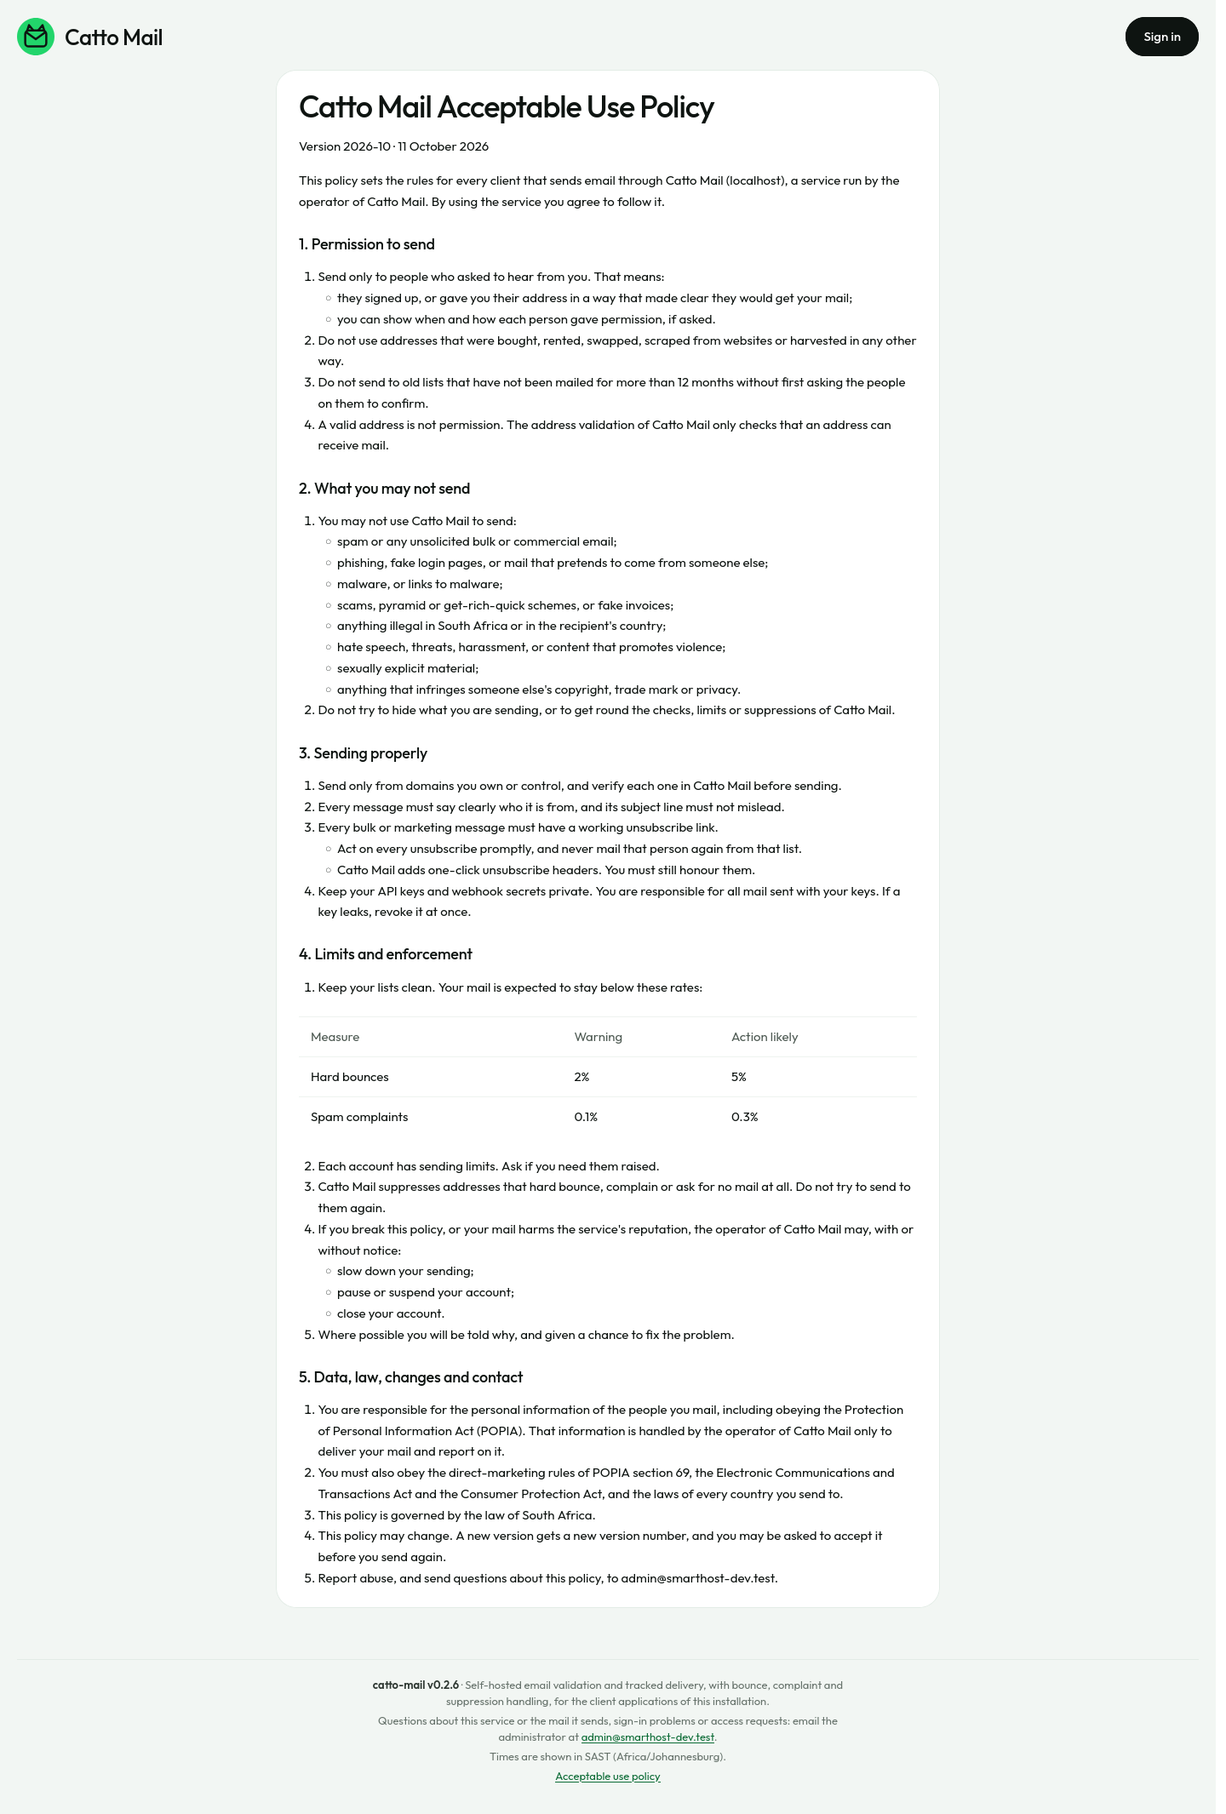
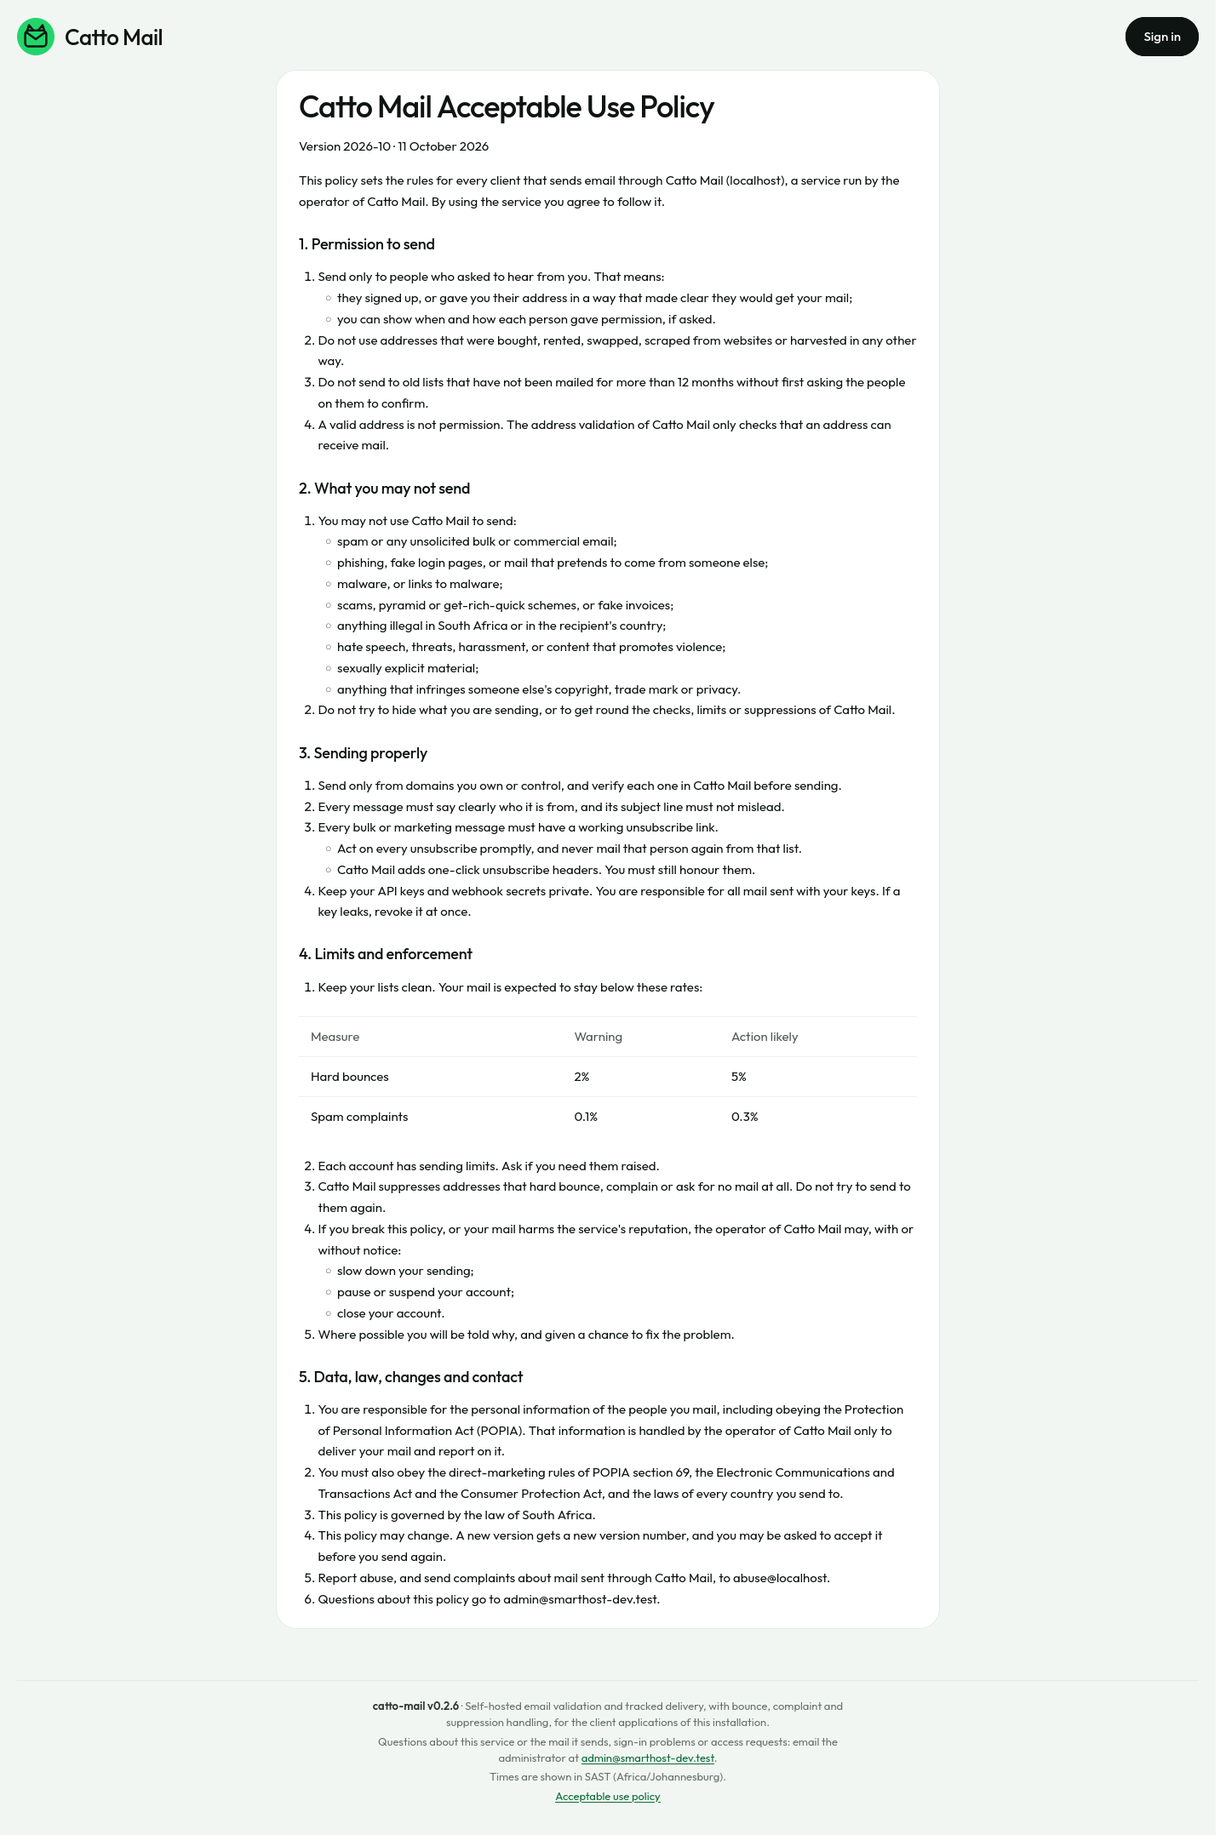
Acceptable use policy: abuse reports go to abuse@ the installation's domain (unreleased)
The policy sent abuse reports and complaints to the administrator's address.
They go to abuse@<domain> (written abuse@{{domain}} in docs/AUP.md, the host
of the public address), as the original policy had it; the administrator's
address is named only for questions about the policy. The operator provides
that mailbox (onboarding guide, VPS-INSTALL).

check-contracts.py and PolicyPageTest now fail if abuse reports are directed
at the contact address. Specification, environment contract, help page and
guides corrected; the policy page's screenshot retaken.

check-contracts 2,942; test phase2 376 tests.

diff --git a/app/tests/Integration/PolicyPageTest.php b/app/tests/Integration/PolicyPageTest.php
@@ -60,9 +60,10 @@ final class PolicyPageTest extends DashboardTestCase
             self::assertStringContainsString($placeholder, $source);
         }
         self::assertSame(1, preg_match('/^Version ([A-Za-z0-9][A-Za-z0-9._-]*)/m', $source), 'the document states its version');
+        self::assertStringContainsString('to abuse@{{domain}}.', $source, 'abuse reports go to the abuse mailbox of the installation\'s domain');
 
         $this->withEnv(['APP_SITE_NAME' => 'Example Post', 'APP_ORGANISATION_NAME' => 'Example & Sons (Pty) Ltd',
-            'SMARTHOST_PUBLIC_BASE_URL' => 'https://post.example.org', 'APP_ADMIN_EMAIL' => 'abuse_desk@example.org'], function (): void {
+            'SMARTHOST_PUBLIC_BASE_URL' => 'https://post.example.org', 'APP_ADMIN_EMAIL' => 'front_desk@example.org'], function (): void {
                 $response = $this->page('/acceptable-use-policy');
                 self::assertSame(200, $response->getStatusCode());
                 $page = new Crawler((string) $response->getContent());
@@ -70,7 +71,10 @@ final class PolicyPageTest extends DashboardTestCase
                 self::assertSame('Example Post Acceptable Use Policy', $page->filter('article.policy h1')->text());
                 self::assertStringContainsString('through Example Post (post.example.org), a service run by Example & Sons (Pty) Ltd.', $policy);
                 self::assertStringContainsString('You may not use Example Post to send:', $policy);
-                self::assertStringContainsString('to abuse_desk@example.org.', $policy);
+                // Abuse reports and complaints go to the installation's abuse mailbox, not to the administrator.
+                self::assertStringContainsString('Report abuse, and send complaints about mail sent through Example Post, to abuse@post.example.org.', $policy);
+                self::assertStringContainsString('Questions about this policy go to front_desk@example.org.', $policy);
+                self::assertSame(1, substr_count($policy, 'front_desk@example.org'), 'the administrator is named for questions only');
                 self::assertStringContainsString('Example &amp; Sons (Pty) Ltd', (string) $response->getContent(), 'a configured value is escaped');
                 self::assertStringNotContainsString('{{', $policy);
                 self::assertStringNotContainsStringIgnoringCase('catto', $policy);
@@ -83,7 +87,8 @@ final class PolicyPageTest extends DashboardTestCase
         $this->withEnv(['APP_SITE_NAME' => 'Example Post', 'APP_ORGANISATION_NAME' => '', 'APP_ADMIN_EMAIL' => ''], function (): void {
             $policy = (new Crawler((string) $this->page('/acceptable-use-policy')->getContent()))->filter('article.policy')->text();
             self::assertStringContainsString('a service run by the operator of Example Post.', $policy);
-            self::assertStringContainsString('to the administrator of this installation.', $policy);
+            self::assertStringContainsString('Questions about this policy go to the administrator of this installation.', $policy);
+            self::assertStringContainsString(', to abuse@'.self::getContainer()->get(Installation::class)->domain().'.', $policy, 'abuse reports still have their address');
         });
     }
 

diff --git a/scripts/check-contracts.py b/scripts/check-contracts.py
@@ -534,6 +534,10 @@ def check_policy_document(example: dict[str, str]) -> None:
     known = {"{{site_name}}", "{{domain}}", "{{organisation}}", "{{contact}}"}
     check(used <= known, f"docs/AUP.md: unknown placeholders {sorted(used - known)}")
     check(known <= used, f"docs/AUP.md: must name the installation's {sorted(known - used)}")
+    # Abuse reports and complaints go to the installation's abuse mailbox, never to the administrator's address (owner, 2026-10-12).
+    abuse = [line for line in text.splitlines() if re.search(r"\babuse\b", line, re.I) and re.search(r"\breport|\bcomplain", line, re.I)]
+    check(bool(abuse) and all("abuse@{{domain}}" in line and "{{contact}}" not in line for line in abuse),
+          "docs/AUP.md: abuse reports and complaints must be directed to abuse@{{domain}}, not to {{contact}}")
     stated = re.search(r"^Version ([A-Za-z0-9][A-Za-z0-9._-]{0,63})(?=[\s.]|$)", text, re.M)
     check(stated is not None, "docs/AUP.md: must state its version on a line starting 'Version <identifier>'")
     if stated:

diff --git a/app/src/Config/Installation.php b/app/src/Config/Installation.php
@@ -16,6 +16,9 @@ use Symfony\Component\DependencyInjection\Attribute\Autowire;
  *   APP_ORGANISATION_NAME      who operates it (empty: "the operator of <site name>");
  *   SMARTHOST_PUBLIC_BASE_URL  its domain (the host of the public address);
  *   APP_ADMIN_EMAIL            its contact address (may be empty).
+ *
+ * Abuse reports and complaints are not sent to the contact address: the policy document directs
+ * them to abuse@<domain>, which it writes with the domain placeholder (abuse@{{domain}}).
  */
 final class Installation
 {

diff --git a/docs/architecture/open-decisions.md b/docs/architecture/open-decisions.md
@@ -389,7 +389,8 @@ webhook secret by hand. Choices made while implementing it:
 |---|---|
 | The API key and the webhook endpoint of a connection stay created by the exchange (owner, 2026-10-12: "keep it as built"). | `ConnectService::exchange` |
 | The acceptable use policy names the installation it runs on, never the product: `docs/AUP.md` holds four placeholders, filled after rendering with escaped values. The rules of the policy are unchanged; the author's byline was removed, because the document is shown as the policy of whoever runs the installation. The shipped text still refers to South African law: an installation elsewhere replaces the file. | `docs/AUP.md`, `PolicyController`, `App\Config\Installation` |
-| The owner asked for the installation's "configured site name, domain, organisation and contact address". There was no site name or organisation setting, so `APP_SITE_NAME` (default `Catto Mail`) and `APP_ORGANISATION_NAME` (default empty) were added to the group *Installation* of `infra/.env`; the domain is the host of `SMARTHOST_PUBLIC_BASE_URL` and the contact is `APP_ADMIN_EMAIL`, which the footer already shows as the contact. No separate abuse address was added. | `docs/contracts/environment.md` |
+| The owner asked for the installation's "configured site name, domain, organisation and contact address". There was no site name or organisation setting, so `APP_SITE_NAME` (default `Catto Mail`) and `APP_ORGANISATION_NAME` (default empty) were added to the group *Installation* of `infra/.env`; the domain is the host of `SMARTHOST_PUBLIC_BASE_URL` and the contact is `APP_ADMIN_EMAIL`, which the footer already shows as the contact. | `docs/contracts/environment.md` |
+| Abuse reports and complaints go to `abuse@` the installation's domain, not to the administrator's address (owner's correction, 2026-10-12; the original policy named `abuse@` its domain). The policy writes the address as `abuse@{{domain}}`, so no setting was added: the operator makes that mailbox exist. The administrator's address is named only for questions about the policy. | `docs/AUP.md`, `scripts/check-contracts.py`, `PolicyPageTest` |
 | A site name used only in the policy would contradict the page around it, so the top bar, the titles and the sign-in and sign-up emails use it too. The footer's software line and the `application-name` meta tag keep naming the software and its version (owner decision 2026-10-10), as do operator documentation and the help pages. | `templates/_site.html.twig`, `DashboardTwigExtension::siteName` |
 | `APP_ACCEPTABLE_USE_POLICY_VERSION` is `2026-10` in the development example and in the production profile, and `check-contracts.py` ties it to the version `docs/AUP.md` states. An existing `.env` keeps its own value through `env-migrate`. | `scripts/check-contracts.py` |
 | The development pod joins a client application's network instead of the client joining `smarthost-internal`: the internal network `cattomail-dev`, named by ctnlist's tooling, when it exists at `recreate`. Joining exposes every port the pod listens on to that network's containers, which is accepted for a development stack the developer runs. No environment variable was added for it. | `infra/podman/smarthost-pod.sh.in`, `docs/development-environment.md` §3 |

diff --git a/docs/contracts/environment.md b/docs/contracts/environment.md
@@ -196,7 +196,7 @@ Read only by the production topology script and `smarthostctl prod`; the develop
 | `APP_RETENTION_WEBHOOK_DELIVERIES_DAYS` | app | no | 7 | | Webhook delivery history (`webhook_deliveries` and their delivered outbox events). Empty means no automatic deletion: rows stay durable until a production retention policy sets a period. Policy only; nothing deletes them yet. |
 | `APP_SITE_NAME` | app | no | 10 | `Catto Mail` | The name of this installation (owner decision 2026-10-12): shown in the top bar and the title of every page, in the sign-in and sign-up emails (also as the sender's display name) and in the acceptable use policy. One line, at most 60 characters. |
 | `APP_ORGANISATION_NAME` | app | no | 10 | | The organisation or person that operates this installation, named in the acceptable use policy as the party a client agrees with. Empty: the policy names `APP_SITE_NAME` instead. One line, at most 120 characters. |
-| `APP_ADMIN_EMAIL` | app | no | 6 | `admin@smarthost-dev.test` | The administrator's email address. It can always request a dashboard sign-in link (its account is created on first sign-in) and receives the ADMIN role, which holds every permission, at every sign-in. It is also the contact address in the footer of every page and in the acceptable use policy. Empty disables this (the footer then names no address, and the policy names the administrator of the installation). |
+| `APP_ADMIN_EMAIL` | app | no | 6 | `admin@smarthost-dev.test` | The administrator's email address. It can always request a dashboard sign-in link (its account is created on first sign-in) and receives the ADMIN role, which holds every permission, at every sign-in. It is also the contact address in the footer of every page and, for questions about the policy, in the acceptable use policy; abuse reports and complaints go to `abuse@` the installation's domain instead, never to this address. Empty disables this (the footer then names no address, and the policy names the administrator of the installation). |
 | `APP_MAIL_FROM` | app, postfix | no | 6 | `no-reply@smarthost-dev.test` | Sender address of the dashboard sign-in emails (display name: `APP_SITE_NAME`). Its domain should be DKIM-signed by OpenDKIM. Postfix lets only the web application's submission account use it as envelope sender, and in production held mode it is the only sender Postfix delivers. |
 | `APP_LOGIN_LINK_TTL_SECONDS` | app | no | 6 | `900` | Lifetime of an emailed sign-in link. Each link works once. |
 | `APP_REPERMISSION_RESPONSE_DAYS` | app | no | 10 | `60` | How long the answer links of a re-permission message (`/p/<token>`: confirm, unsubscribe from this list, global opt-out) stay valid (specification 2.11). |

diff --git a/docs/PROJECT.md b/docs/PROJECT.md
@@ -238,7 +238,7 @@ Both are gitignored.
 | `production/components.md` | The canonical component names and, for each, container, process, purpose, inputs, outputs, network, data and dependencies; host units; networks, volumes, secrets; BIND is not required. |
 | `production/architecture.md` | The architecture diagram and the twelve steps from upload to webhook. |
 | `integration/ctnlist.md` | Responsibilities between ctnlist and catto-mail, the API calls and webhooks ctnlist already uses, connecting ctnlist with one approval, `repermission.responded`, and the outstanding ctnlist work (connect, contract draft.8 to draft.10, re-permission). |
-| `AUP.md` | The acceptable use policy (Markdown). Copied into the application image and published at `/acceptable-use-policy`, linked from every page's footer; an installation with its own policy replaces it before building. It names no product or domain: the placeholders `{{site_name}}`, `{{domain}}`, `{{organisation}}` and `{{contact}}` are filled from the installation's configuration, and the version it states is the `APP_ACCEPTABLE_USE_POLICY_VERSION` of the environment contract (`check-contracts.py`). |
+| `AUP.md` | The acceptable use policy (Markdown). Copied into the application image and published at `/acceptable-use-policy`, linked from every page's footer; an installation with its own policy replaces it before building. It names no product or domain: the placeholders `{{site_name}}`, `{{domain}}`, `{{organisation}}` and `{{contact}}` are filled from the installation's configuration, abuse reports and complaints go to `abuse@{{domain}}` (never to `{{contact}}`), and the version it states is the `APP_ACCEPTABLE_USE_POLICY_VERSION` of the environment contract (`check-contracts.py` checks both). |
 | `production/onboarding.md` | Client onboarding and SaaS operations (Phase 9): the new-client checklist, lifecycle and its effects, limits and quotas, API keys, reputation alerts, usage, reconciliation and billing statements, notes, permissions, and public sign-up (the owner decision, the starter tier and its defaults, abuse protection, what the operator sees, the criteria before turning it on). |
 | `production/runbook.md` | Production runbook: VPS, installation, secrets, TLS, DNS identity, DKIM keys, preflight, activation, seed tests, warm-up stages, health checks, webhook/DSN/`outcome_unknown` handling, emergency controls, retention, backups, upgrades, recovery, pending external actions. |
 | `architecture/postfix-integration.md` | Postfix/OpenDKIM/Go channels, cursors, reconciliation and the verified V-1…V-7 results. |

diff --git a/docs/production/VPS-INSTALL.md b/docs/production/VPS-INSTALL.md
@@ -534,8 +534,10 @@ Start with your seed addresses, then a controlled sample — never a whole list.
   `docs/AUP.md`: replace that file with your own policy before `prod upgrade` builds the images.
 - **To a version after 0.2.6**, `env-migrate` adds `APP_SITE_NAME` and `APP_ORGANISATION_NAME`
   to the group *Installation* of `infra/.env`. Set them: the pages, the sign-in emails and the
-  acceptable use policy name your installation with them, and the policy names
-  `APP_ADMIN_EMAIL` as the address for abuse reports. To put the shipped policy in force for new
+  acceptable use policy name your installation with them. The policy sends abuse reports and
+  complaints to `abuse@` your domain (the host of `SMARTHOST_PUBLIC_BASE_URL`): make that
+  mailbox exist and read it. `APP_ADMIN_EMAIL` is named only for questions about the policy. To
+  put the shipped policy in force for new
   clients, set `APP_ACCEPTABLE_USE_POLICY_VERSION=2026-10` (a new installation has it already).
 - **Rollback:**
   ```sh

diff --git a/docs/20260908-1644-smarthost-human-specification.md b/docs/20260908-1644-smarthost-human-specification.md
@@ -1810,7 +1810,9 @@ is the name in the top bar, the page titles and the sign-in and sign-up emails. 
 names no product, domain or repository: it holds the placeholders `{{site_name}}`, `{{domain}}`,
 `{{organisation}}` and `{{contact}}`, and the page fills them with the installation's name, the host of
 its public address, `APP_ORGANISATION_NAME` (without one, "the operator of" the name) and
-`APP_ADMIN_EMAIL`. The policy version in force (`APP_ACCEPTABLE_USE_POLICY_VERSION`) is, in the
+`APP_ADMIN_EMAIL`. Abuse reports and complaints are directed to `abuse@` the installation's domain
+(`abuse@{{domain}}`), never to the administrator's address, which is named only for questions about
+the policy; the operator provides that mailbox. The policy version in force (`APP_ACCEPTABLE_USE_POLICY_VERSION`) is, in the
 development example and the production profile, the version the document states; the contract
 check compares them. Only the footer and the page head name the software and its version.
 

diff --git a/docs/production/onboarding.md b/docs/production/onboarding.md
@@ -28,7 +28,11 @@ Before approval:
   - The policy text is `docs/AUP.md`, published at `/acceptable-use-policy` and linked from every
     page's footer. It names your installation, not the software: set `APP_SITE_NAME` and
     `APP_ORGANISATION_NAME` in `infra/.env` (group *Installation*); the page also shows the
-    domain of the public address and `APP_ADMIN_EMAIL` as the contact for abuse reports.
+    domain of the public address.
+  - The policy sends abuse reports and complaints to `abuse@` that domain (for
+    `https://mail.example.com`, `abuse@mail.example.com`), never to the administrator. Create
+    that mailbox, or forward it, and read it every day. `APP_ADMIN_EMAIL` is named only for
+    questions about the policy.
   - The production profile puts the shipped policy's version in force
     (`APP_ACCEPTABLE_USE_POLICY_VERSION=2026-10`). If you replace the file with your own policy
     before you build the images, keep its placeholders or write your names in, and set the

diff --git a/CHANGELOG.md b/CHANGELOG.md
@@ -41,6 +41,10 @@ the shipped policy in force.
   public address, `APP_ORGANISATION_NAME` (without one, "the operator of" the name) and
   `APP_ADMIN_EMAIL` (without one, "the administrator of this installation"), escaped. The rules
   are unchanged. The author's byline is gone: the policy is the installation's.
+- **Abuse reports go to the abuse mailbox:** the policy sends abuse reports and complaints to
+  `abuse@` the installation's domain (`abuse@{{domain}}`), as the original did, and names the
+  administrator's address only for questions about the policy. The operator must make that
+  mailbox exist and read it. `check-contracts.py` and `PolicyPageTest` enforce it.
 - **The shipped policy version is in force by default** (owner decision):
   `APP_ACCEPTABLE_USE_POLICY_VERSION` is `2026-10` in `infra/.env.example` and in the production
   profile (`infra/production.env.example`), the version `docs/AUP.md` states. A new client that

diff --git a/app/README.md b/app/README.md
@@ -179,7 +179,8 @@ of a client admin, in an authorisation-code flow with PKCE (`App\Connect\Connect
 - `/acceptable-use-policy` (`PolicyController`, `App\Util\Markdown`): the policy page, built from
   `docs/AUP.md`; every footer links to it. The document names no product: its placeholders are
   filled from `App\Config\Installation` (`APP_SITE_NAME`, `APP_ORGANISATION_NAME`, the public
-  address's host, `APP_ADMIN_EMAIL`), which also names the installation in the top bar, the page
+  address's host, `APP_ADMIN_EMAIL`; abuse reports go to `abuse@` that host, never to the
+  administrator), which also names the installation in the top bar, the page
   titles and the sign-in and sign-up emails (Twig `site_name()`).
 - Rate limits `connect_page` and `connect_exchange` in framework.yaml. Migration
   `Version20261015000100` (`application_connections`; `webhook_endpoints.status` `removed`).

diff --git a/CLAUDE.md b/CLAUDE.md
@@ -428,7 +428,9 @@ This is a public repository. Documentation, comments, examples, tests, configura
     name the software and its commands.
   - `docs/AUP.md` names no product, domain or repository: only `{{site_name}}`, `{{domain}}`,
     `{{organisation}}` and `{{contact}}` (`Installation::placeholders()`, filled after rendering,
-    escaped). `check-contracts.py` and `PolicyPageTest` enforce it. When its rules change, change
+    escaped). Abuse reports and complaints go to `abuse@{{domain}}`, never to `{{contact}}` (the
+    administrator, named only for questions about the policy). `check-contracts.py` and
+    `PolicyPageTest` enforce both. When its rules change, change
     the version it states and `APP_ACCEPTABLE_USE_POLICY_VERSION` in the contract (example and
     production profile) together, then `env-example`.
 - **Application connect (spec 2.12).**
